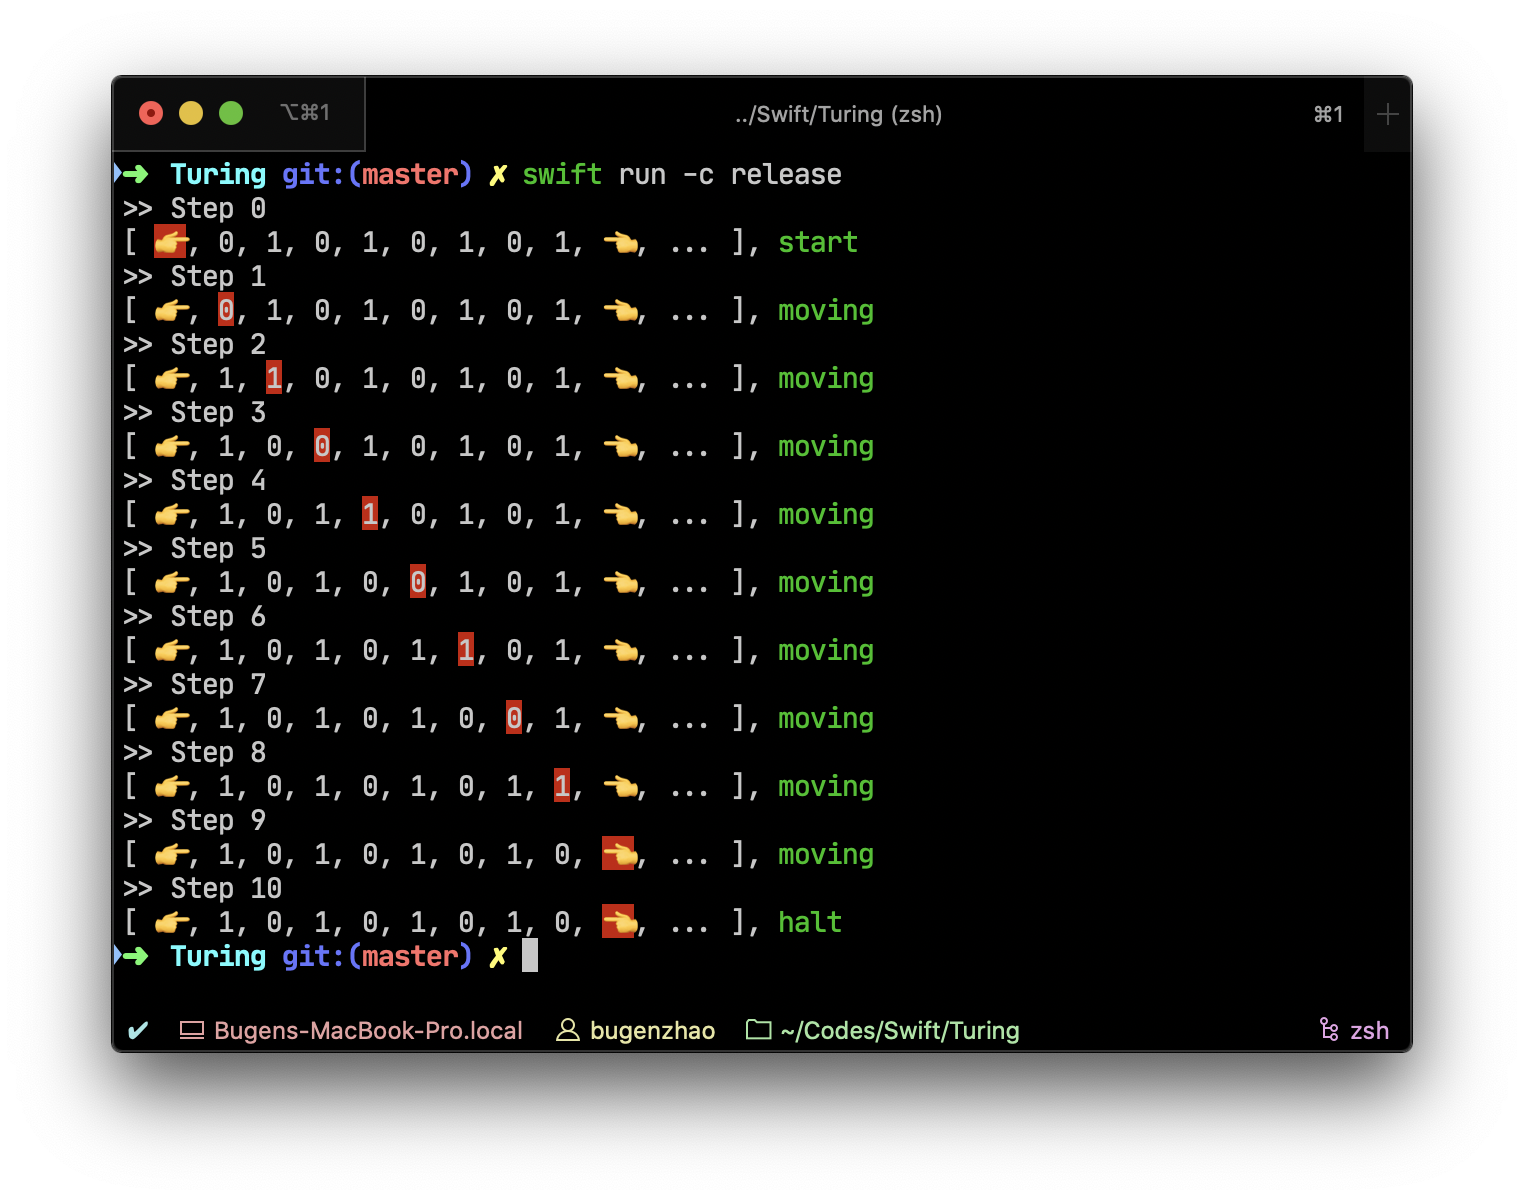
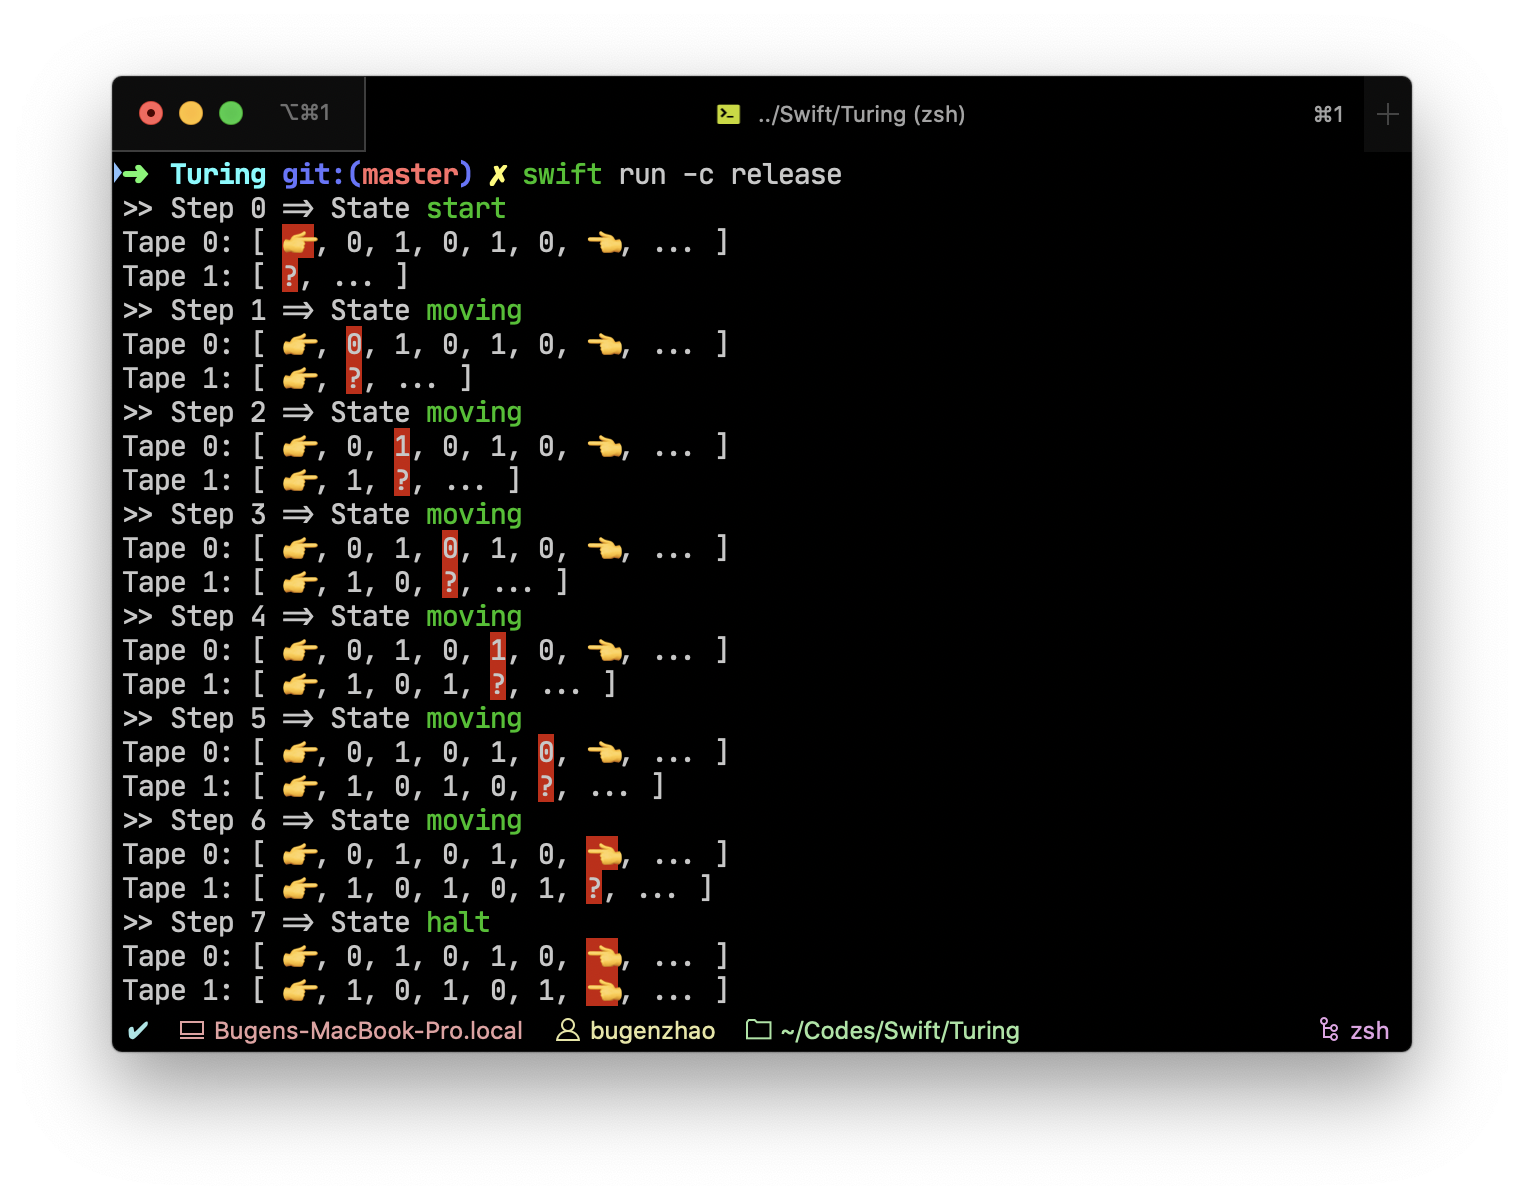
Added: better support for multiple tapes

diff --git a/Sources/TuringLib/TuringMachine.swift b/Sources/TuringLib/TuringMachine.swift
@@ -11,11 +11,7 @@ import Rainbow
 public class TuringMachine<State, Symbol> where State: Equatable, Symbol: Equatable {
     public typealias Inst = Instruction<State, Symbol>
 
-    public enum TuringMachineError: Error {
-        case incorrectCount
-    }
-
-    public private(set) var tapes: [Tape<Symbol>]
+    public var tapes: [Tape<Symbol>]
     public private(set) var instructions: [Inst] = [Inst]()
 
     public var state: State
@@ -44,23 +40,26 @@ public class TuringMachine<State, Symbol> where State: Equatable, Symbol: Equata
     @discardableResult
     public func step(verbose: Bool = true) -> Bool {
         let foundInst = instructions.first { inst in
-            inst.fromState == state && inst.fromSymbols == tapes.map { $0.tape[$0.head] }
+            inst.fromState == state && inst.fromSymbols == tapes.map { tape in
+                var tape = tape
+                return try! tape.read()
+            }
         }
 
         if let foundInst = foundInst {
             self.state = foundInst.toState
             switch tapeCount {
             case 1:
-                tapes[0].write(foundInst.toSymbols[0])
+                try! tapes[0].write(foundInst.toSymbols[0])
                 tapes[0].move(foundInst.toDirections[0])
             default:
                 tapes[0].move(foundInst.toDirections[0])
                 for i in 1..<tapeCount {
-                    tapes[i].write(foundInst.toSymbols[i - 1])
+                    try! tapes[i].write(foundInst.toSymbols[i - 1])
                     tapes[i].move(foundInst.toDirections[i])
                 }
             }
-            
+
             stepCount += 1
             dump()
             return true
@@ -77,9 +76,9 @@ public class TuringMachine<State, Symbol> where State: Equatable, Symbol: Equata
     }
 
     public func dump() {
-        print(">> Step \(stepCount)")
-        tapes.forEach { tape in
-            print(tape, ", ", "\(state)".green, separator: "")
+        print(">> Step \(stepCount) => State", "\(state)".green)
+        tapes.enumerated().forEach { idx, tape in
+            print("Tape \(idx):", tape)
         }
     }
 }

diff --git a/Sources/TuringLib/Tape.swift b/Sources/TuringLib/Tape.swift
@@ -8,11 +8,11 @@
 import Foundation
 import Rainbow
 
-public class Tape<Symbol>: CustomStringConvertible where Symbol: Equatable {
-    public var tape = [Symbol]()
+public struct Tape<Symbol>: CustomStringConvertible where Symbol: Equatable {
+    public var tape = [Symbol?]()
     public var head: Int = 0
 
-    public func move(_ direction: Direction) {
+    public mutating func move(_ direction: Direction) {
         switch direction {
         case .L:
             head -= 1
@@ -21,24 +21,35 @@ public class Tape<Symbol>: CustomStringConvertible where Symbol: Equatable {
         case .S:
             break
         }
+        while head >= tape.count { tape.append(nil) }
     }
 
-    public func write(_ symbol: Symbol) {
-        guard 0...tape.count ~= head else { fatalError() }
+    public mutating func write(_ symbol: Symbol?) throws {
+        guard 0... ~= head else { throw TuringMachineError.illegalPosition }
+        while head >= tape.count { tape.append(nil) }
+        tape[head] = symbol
+    }
 
-        if head == tape.count { tape.append(symbol) }
-        else { tape[head] = symbol }
+    public mutating func read() throws -> Symbol? {
+        guard 0... ~= head else { throw TuringMachineError.illegalPosition }
+        while head >= tape.count { tape.append(nil) }
+        return tape[head]
     }
 
     public var description: String {
         var result = "[ "
         for i in 0..<tape.count {
-            if i == head { result.append(String(describing: tape[i]).onRed) }
-            else { result.append("\(tape[i])") }
+            let s = tape[i] == nil ? "?" : String(describing: tape[i]!)
+            if i == head { result.append(s.onRed) }
+            else { result.append(s) }
             result.append(", ")
         }
         result.append(head == tape.count ? "...".onRed : "...")
         result.append(" ]")
         return result
+    }
+
+    public init() {
+        tape = [nil]
     }
 }

diff --git a/Sources/Turing/main.swift b/Sources/Turing/main.swift
@@ -10,14 +10,14 @@ enum State {
     case start, halt, moving
 }
 
-let machine = TuringMachine<State, Symbol>(tapeCount: 1, initialState: .start)
+let machine = TuringMachine<State, Symbol>(tapeCount: 2, initialState: .start)
 let instructions: [Instruction<State, Symbol>] = [
-    Instruction(.start, [.👉], .moving, [.👉], [.R]),
-    Instruction(.moving, [.ichi], .moving, [.rei], [.R]),
-    Instruction(.moving, [.rei], .moving, [.ichi], [.R]),
-    Instruction(.moving, [.👈], .halt, [.👈], [.S]),
+    Instruction(.start, [.👉, nil], .moving, [.👉], [.R, .R]),
+    Instruction(.moving, [.ichi, nil], .moving, [.rei], [.R, .R]),
+    Instruction(.moving, [.rei, nil], .moving, [.ichi], [.R, .R]),
+    Instruction(.moving, [.👈, nil], .halt, [.👈], [.S, .S]),
 ]
-let tape: [Symbol] = [.👉, .rei, .ichi, .rei, .ichi, .rei, .ichi, .rei, .ichi, .👈]
+let tape: [Symbol?] = [.👉, .rei, .ichi, .rei, .ichi, .rei, .👈]
 
 try! machine.addInstruction(from: instructions)
 machine.tapes[0].tape = tape

diff --git a/Sources/TuringLib/Instruction.swift b/Sources/TuringLib/Instruction.swift
@@ -17,13 +17,13 @@ public enum Direction: Equatable, Hashable {
 
 public struct Instruction<State, Symbol> where State: Equatable, Symbol: Equatable {
     public let fromState: State
-    public let fromSymbols: [Symbol]
+    public let fromSymbols: [Symbol?]
 
     public let toState: State
-    public let toSymbols: [Symbol]
+    public let toSymbols: [Symbol?]
     public let toDirections: [Direction]
 
-    public init(_ fromState: State, _ fromSymbols: [Symbol], _ toState: State, _ toSymbols: [Symbol], _ toDirections: [Direction]) {
+    public init(_ fromState: State, _ fromSymbols: [Symbol?], _ toState: State, _ toSymbols: [Symbol?], _ toDirections: [Direction]) {
         self.fromState = fromState
         self.fromSymbols = fromSymbols
         self.toState = toState

diff --git a/Sources/TuringLib/TuringMachineError.swift b/Sources/TuringLib/TuringMachineError.swift
@@ -1,0 +1,13 @@
+//
+//  TuringMachineError.swift
+//  TuringLib
+//
+//  Created by Bugen Zhao on 5/9/20.
+//
+
+import Foundation
+
+public enum TuringMachineError: Error {
+    case incorrectCount
+    case illegalPosition
+}

diff --git a/README.md b/README.md
@@ -17,14 +17,14 @@ enum State {
     case start, halt, moving
 }
 
-let machine = TuringMachine<State, Symbol>(tapeCount: 1, initialState: .start)
+let machine = TuringMachine<State, Symbol>(tapeCount: 2, initialState: .start)
 let instructions: [Instruction<State, Symbol>] = [
-    Instruction(.start, [.👉], .moving, [.👉], [.R]),
-    Instruction(.moving, [.ichi], .moving, [.rei], [.R]),
-    Instruction(.moving, [.rei], .moving, [.ichi], [.R]),
-    Instruction(.moving, [.👈], .halt, [.👈], [.S]),
+    Instruction(.start, [.👉, nil], .moving, [.👉], [.R, .R]),
+    Instruction(.moving, [.ichi, nil], .moving, [.rei], [.R, .R]),
+    Instruction(.moving, [.rei, nil], .moving, [.ichi], [.R, .R]),
+    Instruction(.moving, [.👈, nil], .halt, [.👈], [.S, .S]),
 ]
-let tape: [Symbol] = [.👉, .rei, .ichi, .rei, .ichi, .rei, .ichi, .rei, .ichi, .👈]
+let tape: [Symbol?] = [.👉, .rei, .ichi, .rei, .ichi, .rei, .👈]
 
 try! machine.addInstruction(from: instructions)
 machine.tapes[0].tape = tape
